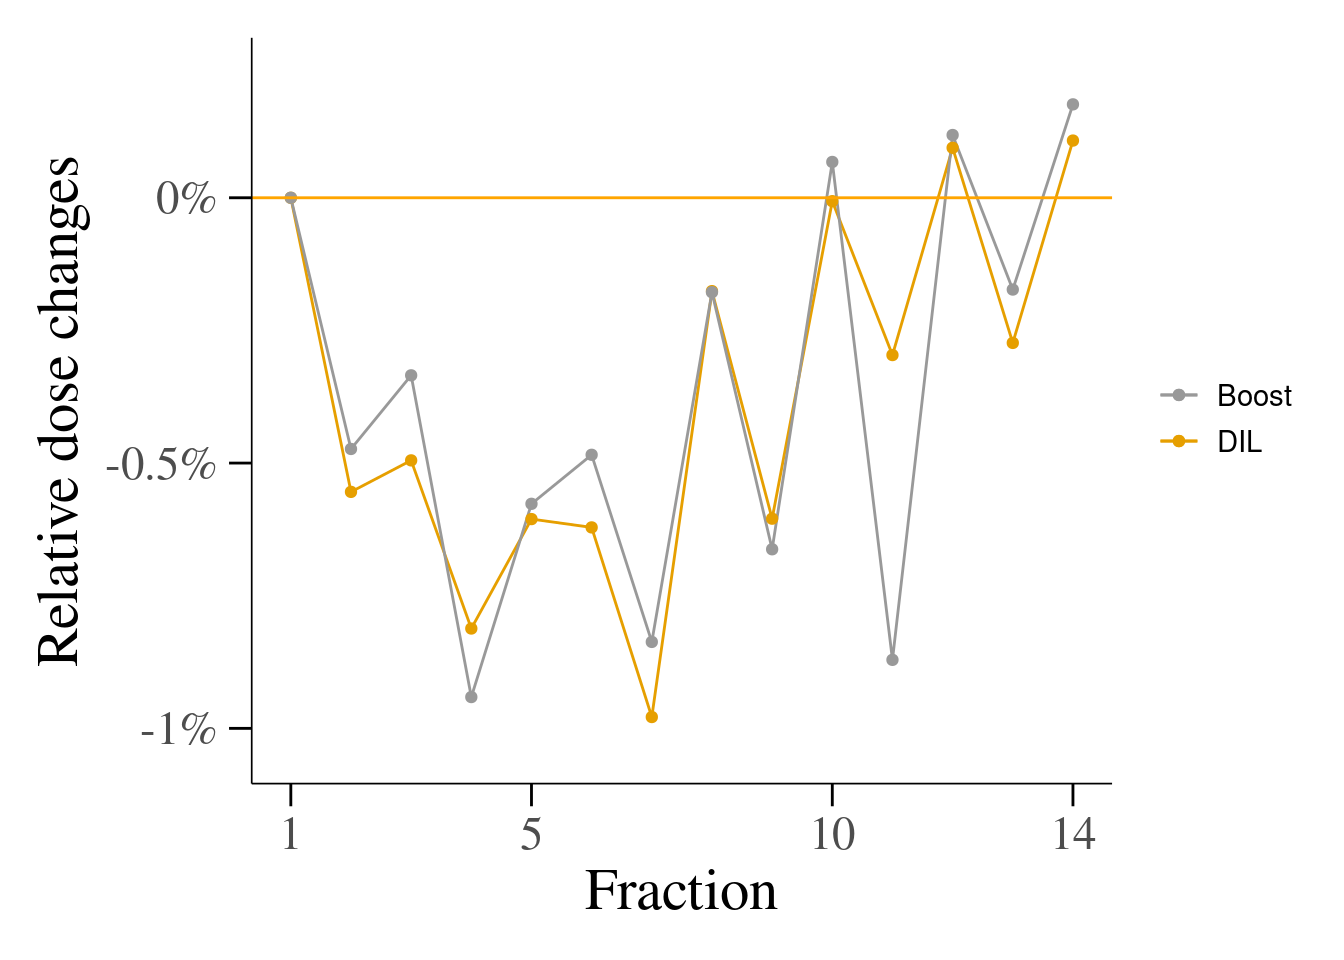
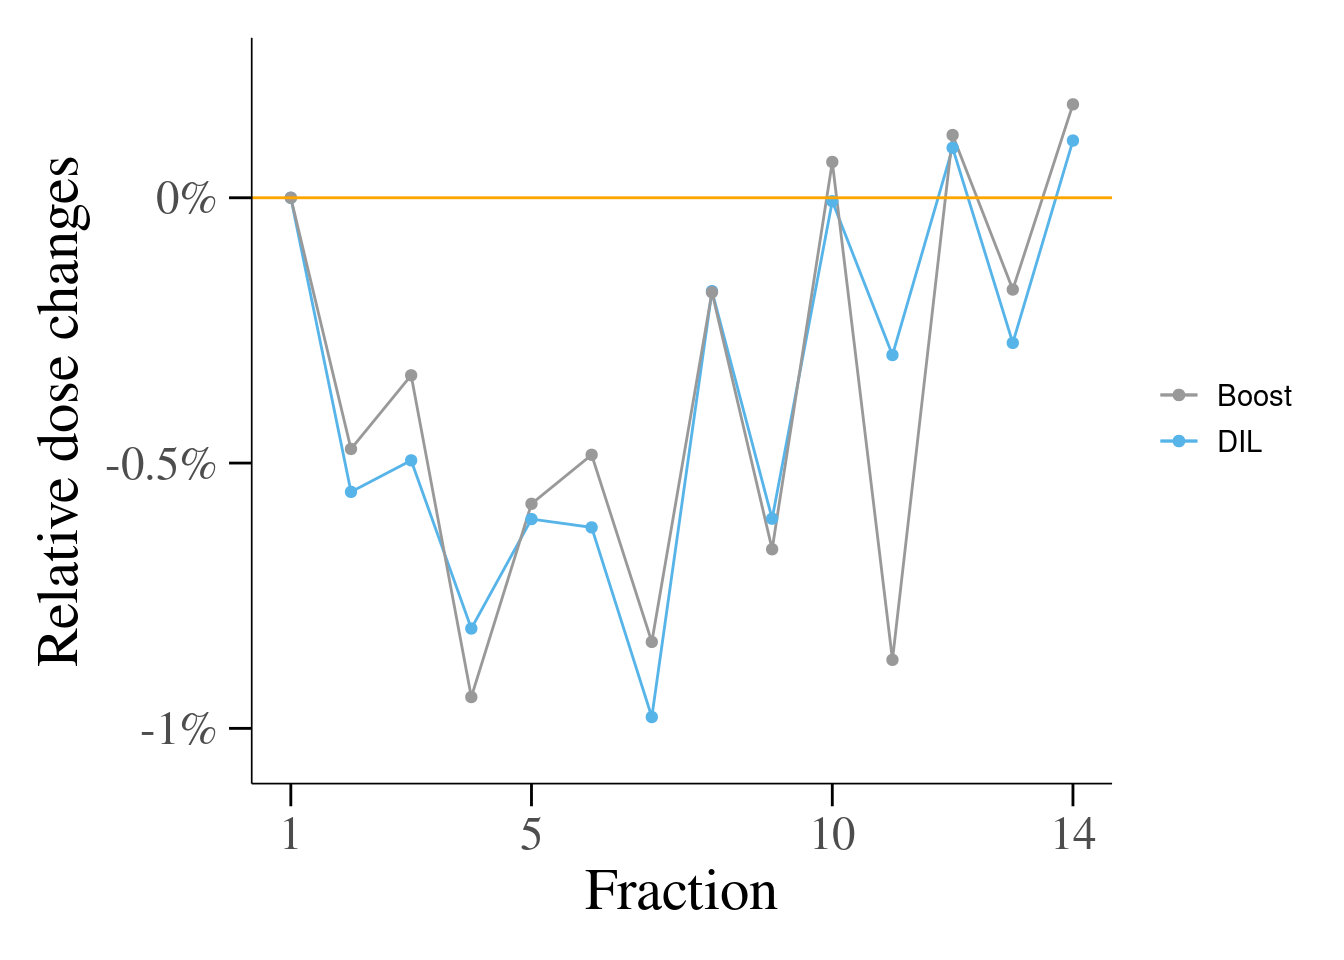
Build site.

diff --git a/docs/PatientX.html b/docs/PatientX.html
@@ -517,16 +517,16 @@ This reproducible <a href="http://rmarkdown.rstudio.com">R Markdown</a> analysis
 <div class="panel panel-default">
 <div class="panel-heading">
 <p class="panel-title">
-<a data-toggle="collapse" data-parent="#workflowr-checks" href="#strongRepositoryversionstrongahrefhttpsgithubcomdssrttnTesttree49f6ddb04d06a3d9a90ed3ddb0f578ce5dffc173targetblank49f6ddba"> <span class="glyphicon glyphicon-ok text-success" aria-hidden="true"></span> <strong>Repository version:</strong> <a href="https://github.com/dssrttn/Test/tree/49f6ddb04d06a3d9a90ed3ddb0f578ce5dffc173" target="_blank">49f6ddb</a> </a>
+<a data-toggle="collapse" data-parent="#workflowr-checks" href="#strongRepositoryversionstrongahrefhttpsgithubcomdssrttnTesttree7b6fb0702cb3abe7298e8f89124745d7a00106dbtargetblank7b6fb07a"> <span class="glyphicon glyphicon-ok text-success" aria-hidden="true"></span> <strong>Repository version:</strong> <a href="https://github.com/dssrttn/Test/tree/7b6fb0702cb3abe7298e8f89124745d7a00106db" target="_blank">7b6fb07</a> </a>
 </p>
 </div>
[2 lines of base64/hex data omitted]
 <div class="panel-body">
 <p>
 Great! You are using Git for version control. Tracking code development and connecting the code version to the results is critical for reproducibility.
 </p>
 <p>
-The results in this page were generated with repository version <a href="https://github.com/dssrttn/Test/tree/49f6ddb04d06a3d9a90ed3ddb0f578ce5dffc173" target="_blank">49f6ddb</a>. See the <em>Past versions</em> tab to see a history of the changes made to the R Markdown and HTML files.
+The results in this page were generated with repository version <a href="https://github.com/dssrttn/Test/tree/7b6fb0702cb3abe7298e8f89124745d7a00106db" target="_blank">7b6fb07</a>. See the <em>Past versions</em> tab to see a history of the changes made to the R Markdown and HTML files.
 </p>
 <p>
 Note that you need to be careful to ensure that all relevant files for the analysis have been committed to Git prior to generating the results (you can use <code>wflow_publish</code> or <code>wflow_git_commit</code>). workflowr only checks the R Markdown file, but you know if there are other scripts or data files that it depends on. Below is the status of the Git repository when the results were generated:
@@ -544,6 +544,8 @@ Untracked files:
     Untracked:  README.html
     Untracked:  analysis/Patient 1.Rmd
     Untracked:  code/Boxplot_DIL_minus_Boost_mean2.R
+    Untracked:  code/boxplotdilminusboostggplot.Rmd
+    Untracked:  code/boxplotdilminusboostggplot.html
     Untracked:  code/lineplottheme.R
     Untracked:  data/1/
     Untracked:  data/10/
@@ -582,6 +584,7 @@ Unstaged changes:
     Modified:   analysis/dilundboost.Rmd
     Modified:   analysis/kable.Rmd
     Modified:   code/DILrelchange.R
+    Modified:   code/cbPalette.R
 
 </code></pre>
 <p>
@@ -620,6 +623,40 @@ Message
 </tr>
 </thead>
 <tbody>
+<tr>
+<td>
+Rmd
+</td>
+<td>
+<a href="https://github.com/dssrttn/Test/blob/7b6fb0702cb3abe7298e8f89124745d7a00106db/analysis/PatientX.Rmd" target="_blank">7b6fb07</a>
+</td>
+<td>
+Mein Vorname
+</td>
+<td>
+2020-08-08
+</td>
+<td>
+zwischenspeicherung, beimm ggplot boxplot erstellen
+</td>
+</tr>
+<tr>
+<td>
+html
+</td>
+<td>
+<a href="https://rawcdn.githack.com/dssrttn/Test/c150df1fe7f3bf78fe62b92f59b3cd33cf37381d/docs/PatientX.html" target="_blank">c150df1</a>
+</td>
+<td>
+Mein Vorname
+</td>
+<td>
+2020-08-08
+</td>
+<td>
+Build site.
+</td>
+</tr>
 <tr>
 <td>
 Rmd
@@ -997,7 +1034,7 @@ ggplot(DIL_mean_rel,aes(x=1:nrow(DIL_mean_rel) #DIL_relabs$x
    geom_segment( aes(x=1:nrow(DIL_mean_rel), xend=1:nrow(DIL_mean_rel), y=0, yend=y), color=&quot;black&quot;) + # Striche von der Hoehe y bis zu den Punkten
     geom_point() +
   scale_y_continuous(expand=c(0.1, .01), breaks = pretty_breaks(), labels=function(x) paste0(x,&quot;%&quot;)) + #labels=function(x) paste0(x,&quot;%&quot;) adds percent symbol, but without multiplying it with 100, like when one does: scale_y_continuous(labels = scales::percent)
-#   scale_x_continuous( breaks = pretty_breaks())  + # adds ticks automatically
+  # expand takes two values, a multiplier and an addition. The multiplier expands the axis by that amount in both directions, here 5%. The addition is then added on top.
      scale_x_continuous(breaks = c(1,5,10,nrow(DIL_mean_rel)))  + # adds only specific ticks
   geom_abline(intercept = 0, slope = 0, lty=1, col=&#39;orange&#39;) + # horizontale Linie ohne Steigung, da slope = 0 
  ggtitle(&quot;DIL - Relative dose changes in percent from the 1st fraction with DIL&quot;) +
@@ -1276,6 +1313,17 @@ Date
 <tbody>
 <tr>
 <td>
+<a href="https://github.com/dssrttn/Test/blob/c150df1fe7f3bf78fe62b92f59b3cd33cf37381d/docs/figure/PatientX.Rmd/Lollipop plot Boost relative change-1.png" target="_blank">c150df1</a>
+</td>
+<td>
+Mein Vorname
+</td>
+<td>
+2020-08-08
+</td>
+</tr>
+<tr>
+<td>
 <a href="https://github.com/dssrttn/Test/blob/e1e7f90389289e06ae36d45189dd14710e1f7e9e/docs/figure/PatientX.Rmd/Lollipop plot Boost relative change-1.png" target="_blank">e1e7f90</a>
 </td>
 <td>
@@ -1352,6 +1400,17 @@ Date
 </tr>
 </thead>
 <tbody>
+<tr>
+<td>
+<a href="https://github.com/dssrttn/Test/blob/c150df1fe7f3bf78fe62b92f59b3cd33cf37381d/docs/figure/PatientX.Rmd/Relative dose changes DIL und boost in percent line plot-1.png" target="_blank">c150df1</a>
+</td>
+<td>
+Mein Vorname
+</td>
+<td>
+2020-08-08
+</td>
+</tr>
 <tr>
 <td>
 <a href="https://github.com/dssrttn/Test/blob/167c81160c058188d9a85629b5e765cc2026ed46/docs/figure/PatientX.Rmd/Relative dose changes DIL und boost in percent line plot-1.png" target="_blank">167c811</a>
@@ -2053,6 +2112,17 @@ Date
 <tbody>
 <tr>
 <td>
+<a href="https://github.com/dssrttn/Test/blob/c150df1fe7f3bf78fe62b92f59b3cd33cf37381d/docs/figure/PatientX.Rmd/Lollipop plot relative dose changes of rectum in percent-1.png" target="_blank">c150df1</a>
+</td>
+<td>
+Mein Vorname
+</td>
+<td>
+2020-08-08
+</td>
+</tr>
+<tr>
+<td>
 <a href="https://github.com/dssrttn/Test/blob/a84745c37a5fdf6c6fe29b5db87ad19fc131a8c5/docs/figure/PatientX.Rmd/Lollipop plot relative dose changes of rectum in percent-1.png" target="_blank">a84745c</a>
 </td>
 <td>
@@ -2431,6 +2501,17 @@ Date
 </tr>
 </thead>
 <tbody>
+<tr>
+<td>
+<a href="https://github.com/dssrttn/Test/blob/c150df1fe7f3bf78fe62b92f59b3cd33cf37381d/docs/figure/PatientX.Rmd/Lollipop plot relative dose changes of bladder in percent-1.png" target="_blank">c150df1</a>
+</td>
+<td>
+Mein Vorname
+</td>
+<td>
+2020-08-08
+</td>
+</tr>
 <tr>
 <td>
 <a href="https://github.com/dssrttn/Test/blob/a84745c37a5fdf6c6fe29b5db87ad19fc131a8c5/docs/figure/PatientX.Rmd/Lollipop plot relative dose changes of bladder in percent-1.png" target="_blank">a84745c</a>
